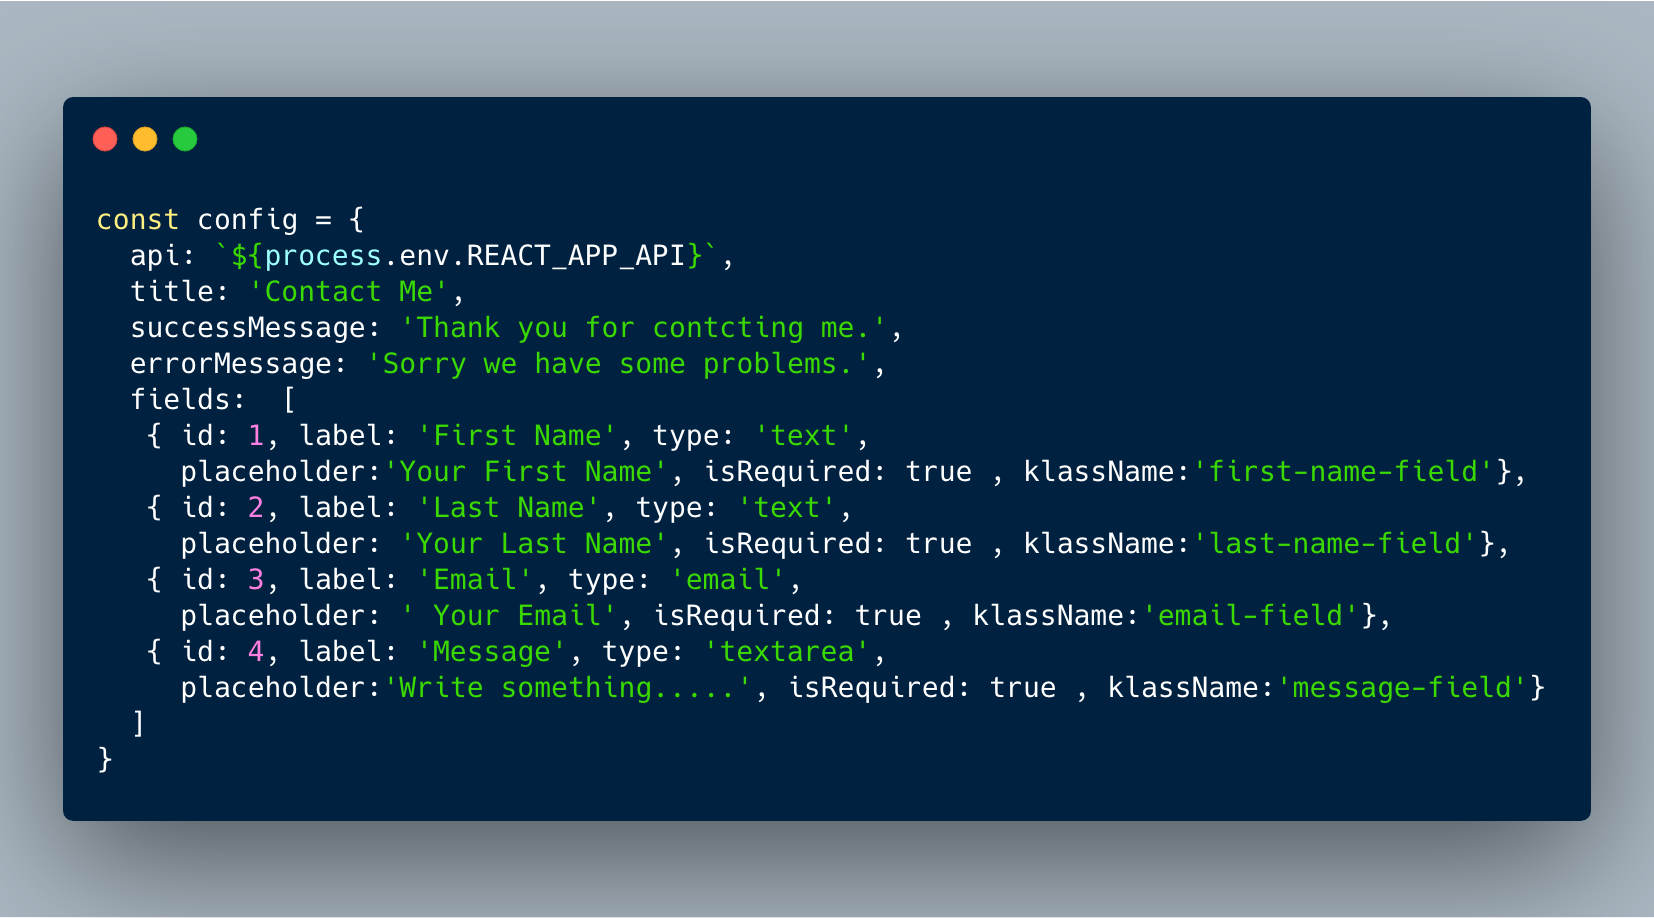
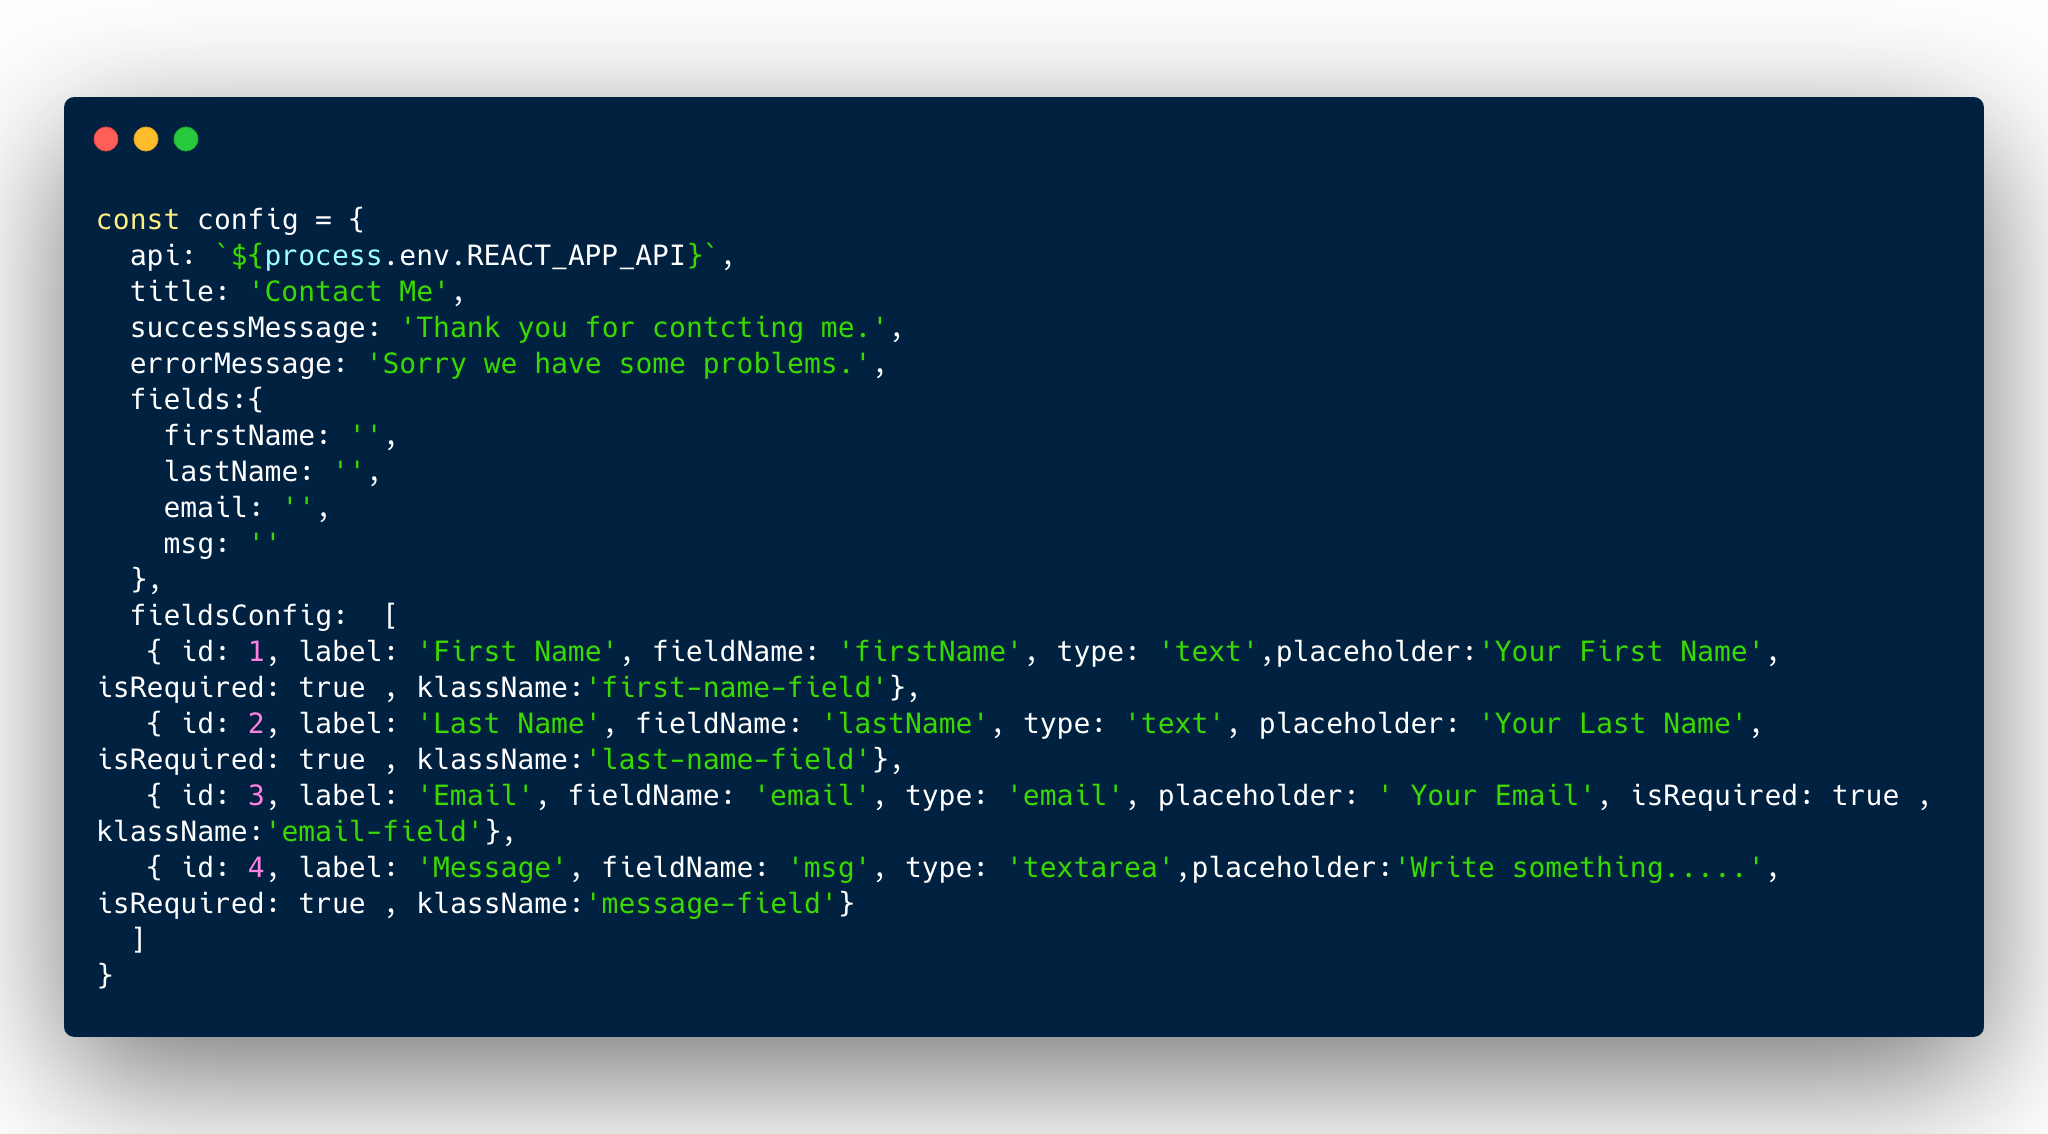
updated php script and broken stuff in the component

diff --git a/src/components/Form/index.js b/src/components/Form/index.js
@@ -11,10 +11,6 @@ class Form extends React.Component {
   constructor(props) {
     super(props);
     this.state = {
-      fname: "",
-      lname: "",
-      email: "",
-      message: "",
       mailSent: false,
       error: null
     };
@@ -29,23 +25,34 @@ class Form extends React.Component {
       data: this.state
     })
       .then(result => {
-        this.setState({
-          mailSent: result.data.sent
-        });
-        console.log(this.state);
+        if (result.data.sent) {
+          this.setState({
+            mailSent: result.data.sent
+          });
+          this.setState({ error: false });
+        } else {
+          this.setState({ error: true });
+        }
       })
       .catch(error => this.setState({ error: error.message }));
   };
 
+  handleChange = (e, field) => {
+    let value = e.target.value;
+    let updateValue = {};
+    updateValue[field] = value;
+    this.setState(updateValue);
+  };
+
   render() {
-    const { title, successMessage, errorMessage, fields } = this.props.config;
+    const { title, successMessage, errorMessage, fieldsConfig } = this.props.config;
     return (
       <div className="App">
         <h2>{title}</h2>
         <div>
           <form action="#">
-            {fields &&
-              fields.map(field => {
+            {fieldsConfig &&
+              fieldsConfig.map(field => {
                 return (
                   <React.Fragment key={field.id}>
                     {field.type !== "textarea" ? (
@@ -55,19 +62,14 @@ class Form extends React.Component {
                           type={field.type}
                           className={field.klassName}
                           placeholder={field.placeholder}
-                          value={this.state.fname}
-                          onChange={e => this.setState({ fname: e.target.value })}
+                          value={field.name}
+                          onChange={e => this.handleChange(e, field.fieldName)}
                         />
                       </React.Fragment>
                     ) : (
                       <React.Fragment>
                         <label>{field.label}</label>
-                        <textarea
-                          className={field.klassName}
-                          placeholder={field.placeholder}
-                          onChange={e => this.setState({ message: e.target.value })}
-                          value={this.state.message}
-                        />
+                        <textarea className={field.klassName} placeholder={field.placeholder} onChange={e => this.handleChange(e, field.fieldName)} value={field.name} />
                       </React.Fragment>
                     )}
                   </React.Fragment>

diff --git a/src/index.js b/src/index.js
@@ -7,11 +7,17 @@ const config = {
   title: 'Contact Me',
   successMessage: 'Thank you for contcting me.',
   errorMessage: 'Sorry we have some problems.',
-  fields:  [
-   { id: 1, label: 'First Name', type: 'text',placeholder:'Your First Name', isRequired: true , klassName:'first-name-field'},
-   { id: 2, label: 'Last Name', type: 'text', placeholder: 'Your Last Name', isRequired: true , klassName:'last-name-field'},
-   { id: 3, label: 'Email', type: 'email', placeholder: ' Your Email', isRequired: true , klassName:'email-field'},
-   { id: 4, label: 'Message', type: 'textarea',placeholder:'Write something.....', isRequired: true , klassName:'message-field'}
+  fields:{
+    firstName: '',
+    lastName: '',
+    email: '',
+    msg: ''
+  },
+  fieldsConfig:  [
+   { id: 1, label: 'First Name', fieldName: 'firstName', type: 'text',placeholder:'Your First Name', isRequired: true , klassName:'first-name-field'},
+   { id: 2, label: 'Last Name', fieldName: 'lastName', type: 'text', placeholder: 'Your Last Name', isRequired: true , klassName:'last-name-field'},
+   { id: 3, label: 'Email', fieldName: 'email', type: 'email', placeholder: ' Your Email', isRequired: true , klassName:'email-field'},
+   { id: 4, label: 'Message', fieldName: 'msg', type: 'textarea',placeholder:'Write something.....', isRequired: true , klassName:'message-field'}
   ]
 }
 ReactDOM.render(<Form config={config} />, document.getElementById('root'));

diff --git a/api/contact/classes/sendmail.php b/api/contact/classes/sendmail.php
@@ -1,0 +1,75 @@
+<?php
+
+class Sender
+{
+    public $sendTo;
+    public $sendFrom;
+    public $subject;
+    public $message;
+    public $headers;
+    public $error = [];
+
+    public function __construct($sendTo, $sendFrom = null, $subject, $message)
+    {
+        $this->sendTo = $sendTo;
+        $this->sendFrom = ($sendFrom) ? $sendFrom : 'hey@malith.dev';
+        $this->subject = $subject;
+        $this->message = $message;
+    }
+
+    public function setTo($email, $name) {
+        return $this->sendTo = $email;
+    }
+
+    public function getTo() {
+        return $this->sendTo;
+    }
+
+    public function setFrom($email, $name)  {
+        return $this->sendFrom = $email;
+    }
+
+    public function setSubject($subject) {
+        return $this->subject = $subject;
+    }
+
+    public function getSubject() {
+        return $this->subject;
+    }
+
+    public function setMessage($message) {
+        $this->message = $message;
+        return $this;
+    }
+
+    public function getMessage() {
+        return $this->message;
+    }
+
+    public function setHeader() {
+        $headers = 'From: '.$this->getFrom() . "\r\n" .
+            'Reply-To: '.$this->getFrom() . "\r\n" .
+            'X-Mailer: PHP/' . phpversion();
+
+        $this->headers = $headers;
+        return $this;
+    }
+
+    public function getFrom() {
+        return $this->sendFrom;
+    }
+
+    public function send() {
+        $to = $this->sendTo;
+        $from = $this->sendFrom;
+        $subject = $this->subject;
+        $message = $this->message;
+        //$headers = $this->headers;
+        $headers = 'From: '.$this->getFrom() . "\r\n" .
+            'Reply-To: '.$this->getFrom() . "\r\n" .
+            'X-Mailer: PHP/' . phpversion();
+
+        mail($to, $subject, $message, $headers);
+        echo json_encode(array("sent" => true));
+    }
+}

diff --git a/api/contact/index.php b/api/contact/index.php
@@ -1,32 +1,36 @@
 <?php
+include_once('classes/sendmail.php');
+include_once('config.php');
+
 header("Access-Control-Allow-Origin: *");
 $rest_json = file_get_contents("php://input");
 $_POST = json_decode($rest_json, true);
 
-if( empty($_POST['fname']) && empty($_POST['email']) ) die();
+if( empty($_POST['firstName']) && empty($_POST['email']) ) {
+    echo json_encode(
+        [
+           "sent" => false,
+           "message" => $SendMailEmptyerrorMessage
+        ]
+    ); 
+    exit();
+}
 
 if ($_POST){
-    // set response code - 200 OK
+    //@important: Please change this before using
     http_response_code(200);
-    $subject = $_POST['fname'];
-    $to =  "hey@malith.dev"; //TODO: Please change this before using
+    $subject = 'Contact from: ' . $_POST['firstName'];
     $from = $_POST['email'];
-    //data
-    $msg = $_POST['number'] . $_POST['message'];       
-    //Headers
-    $headers  = "MIME-Version: 1.0\r\n";
-    $headers .= "Content-type: text/html; charset=UTF-8\r\n";
-    $headers .= "From: <".$from. ">" ;
-
-    mail($to,$subject,$msg,$headers);
-    //echo json_encode( $_POST );
-    echo json_encode(array("sent" => true));
+    $message = $_POST['msg'];       
+    //Actual sending email
+    $sendEmail = new Sender($adminEmail, $from, $subject, $message);
+    $sendEmail->send();
 } else {
  // tell the user about error
  echo json_encode(
      [
         "sent" => false,
-        "message" => "Something went wrong"
+        "message" => $SendMailFailederrorMessage
      ]
  );
 }

diff --git a/api/contact/config.php b/api/contact/config.php
@@ -1,0 +1,4 @@
+<?php
+$adminEmail =  "hey@malith.dev"; //Please change this to yours
+$SendMailFailederrorMessage = "Something went wrong";
+$SendMailEmptyerrorMessage = "Empty form";

diff --git a/README.md b/README.md
@@ -25,11 +25,12 @@ You will also see any lint errors in the console.
 Build this project for production.
 
 
-## Usage only the component
-
+## Using only the component
+If you want to use only the react component without using php api.
 Please download 'src/components/Form/' folder.
 
 You can use the form component like this  `<Form config={config} />`
+
 
 ####props
 
@@ -40,6 +41,23 @@ Example of config prop
 <div align="center">
     <a href="https://www.paypal.me/craftcode"><img alt="Header" src="/config-obj.png?raw=true" width="70%"></a>
 </div>
+
+
+####.env
+
+Make sure change api url in .env file
+
+    $ REACT_APP_API = http://localhost/react-contact-form/api/contact/index.php
+
+change this : http://localhost/react-contact-form/api/contact/index.php
+to whatever you want.
+
+## PHP Settings
+
+Please go to ./api/config.php
+
+and change adminEmail to your email. You will get email to this.
+    $ $adminEmail =  "hey@malith.dev"; 
 
 
 <div align="center">
